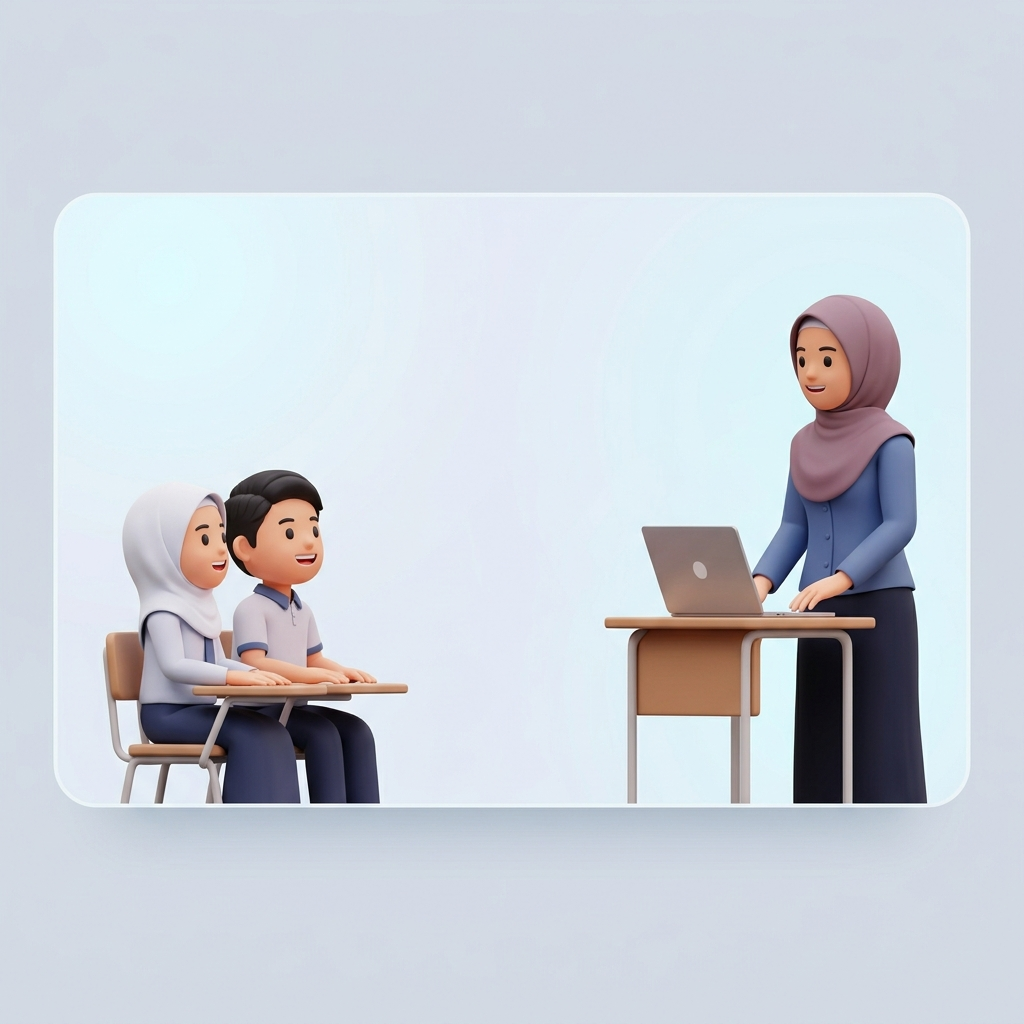
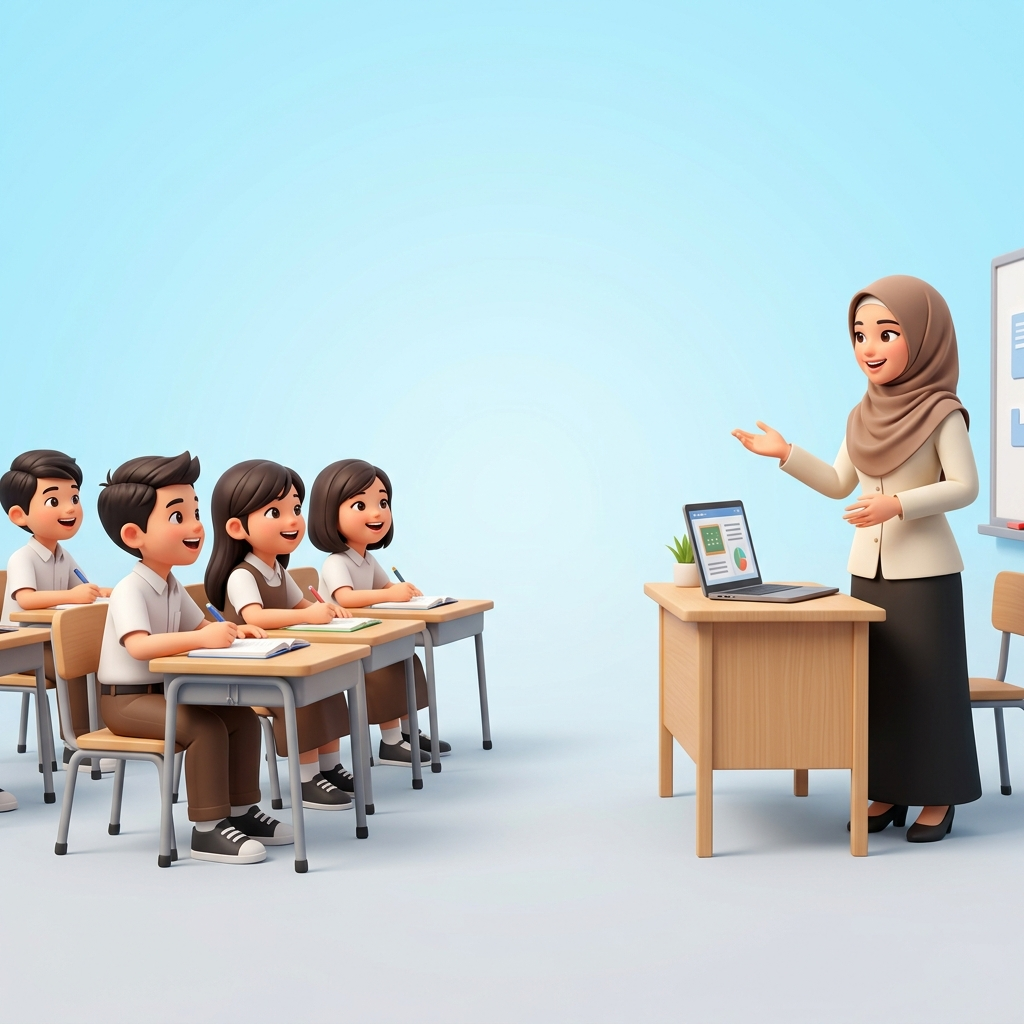
fix(hero): hapus distorsi gepeng dengan aspek rasio cover dan perbarui ilustrasi tanpa bingkai ganda

diff --git a/assets/css/pages.css b/assets/css/pages.css
@@ -1597,15 +1597,12 @@
   border-radius: 24px;
   overflow: hidden;
   display: flex;
-  align-items: center;
-  justify-content: center;
-  padding: clamp(2.5rem, 5vw, 4rem) 2rem;
   /* 3 Lapisan: Gradasi halus + Gambar Ilustrasi 3D */
   background:
     linear-gradient(to right, rgba(219, 234, 254, 0.4), rgba(243, 244, 246, 0.5), rgba(219, 234, 254, 0.4)),
     url('../images/hero/hero-bg.png');
   background-position: center bottom;
-  background-size: 100% 100%;
+  background-size: cover;
   background-repeat: no-repeat;
   box-shadow: 0 10px 30px -5px rgba(0, 0, 0, 0.05), 0 1px 3px 0 rgba(0, 0, 0, 0.03);
 }
@@ -1671,7 +1668,7 @@
 /* Responsif Tablet/Medium (768px - 1024px): Mendorong karakter ke tepi luar & mempersempit zona teks */
 @media (max-width: 1024px) and (min-width: 769px) {
   .hero-card {
-    background-size: 100% 100%;
+    background-size: cover;
     background-position: center bottom;
   }
   .hero-content {

diff --git a/index.html b/index.html
@@ -20,7 +20,7 @@
     <!-- CSS -->
     <link rel="stylesheet" href="assets/css/main.css?v=cardredesign2">
     <link rel="stylesheet" href="assets/css/components.css?v=cardredesign2">
-    <link rel="stylesheet" href="assets/css/pages.css?v=herobento3">
+    <link rel="stylesheet" href="assets/css/pages.css?v=herobento4">
 </head>
 <body class="page-body">
 
